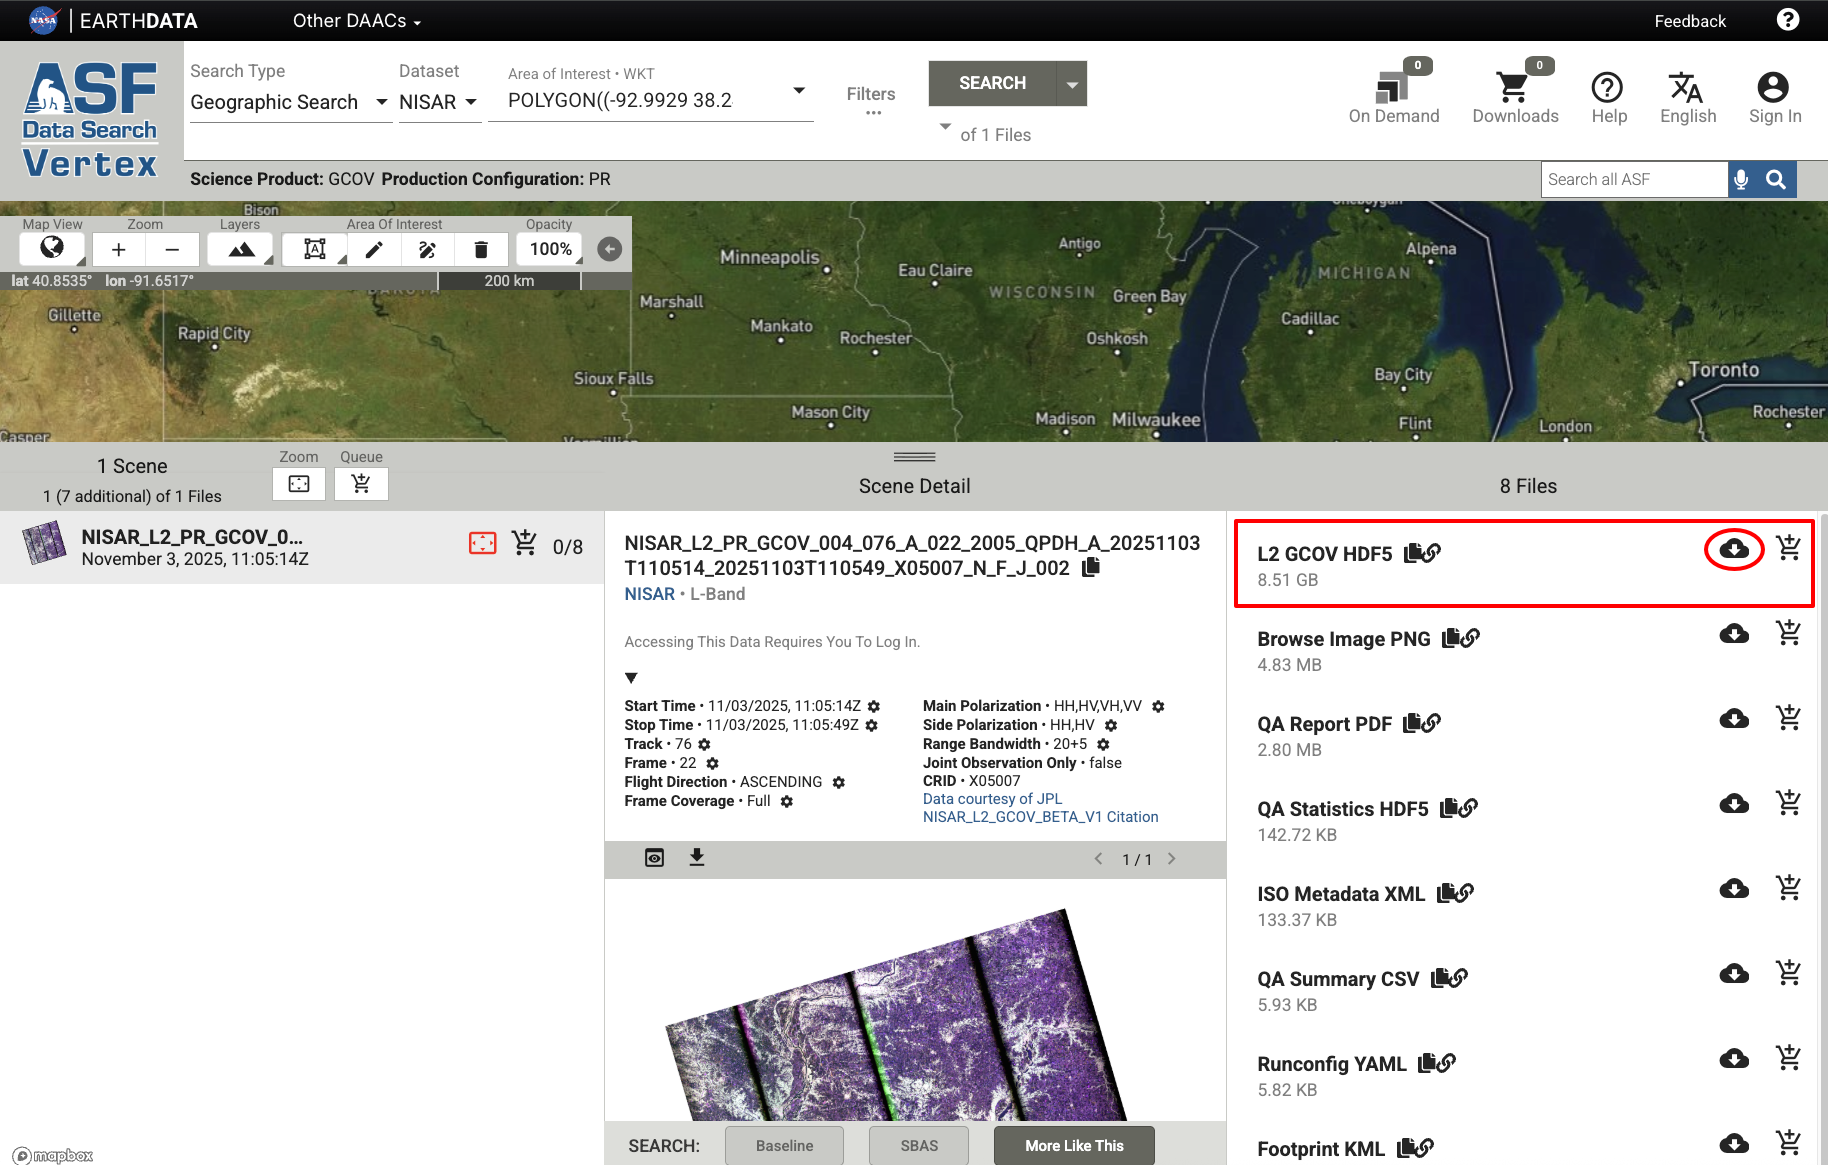
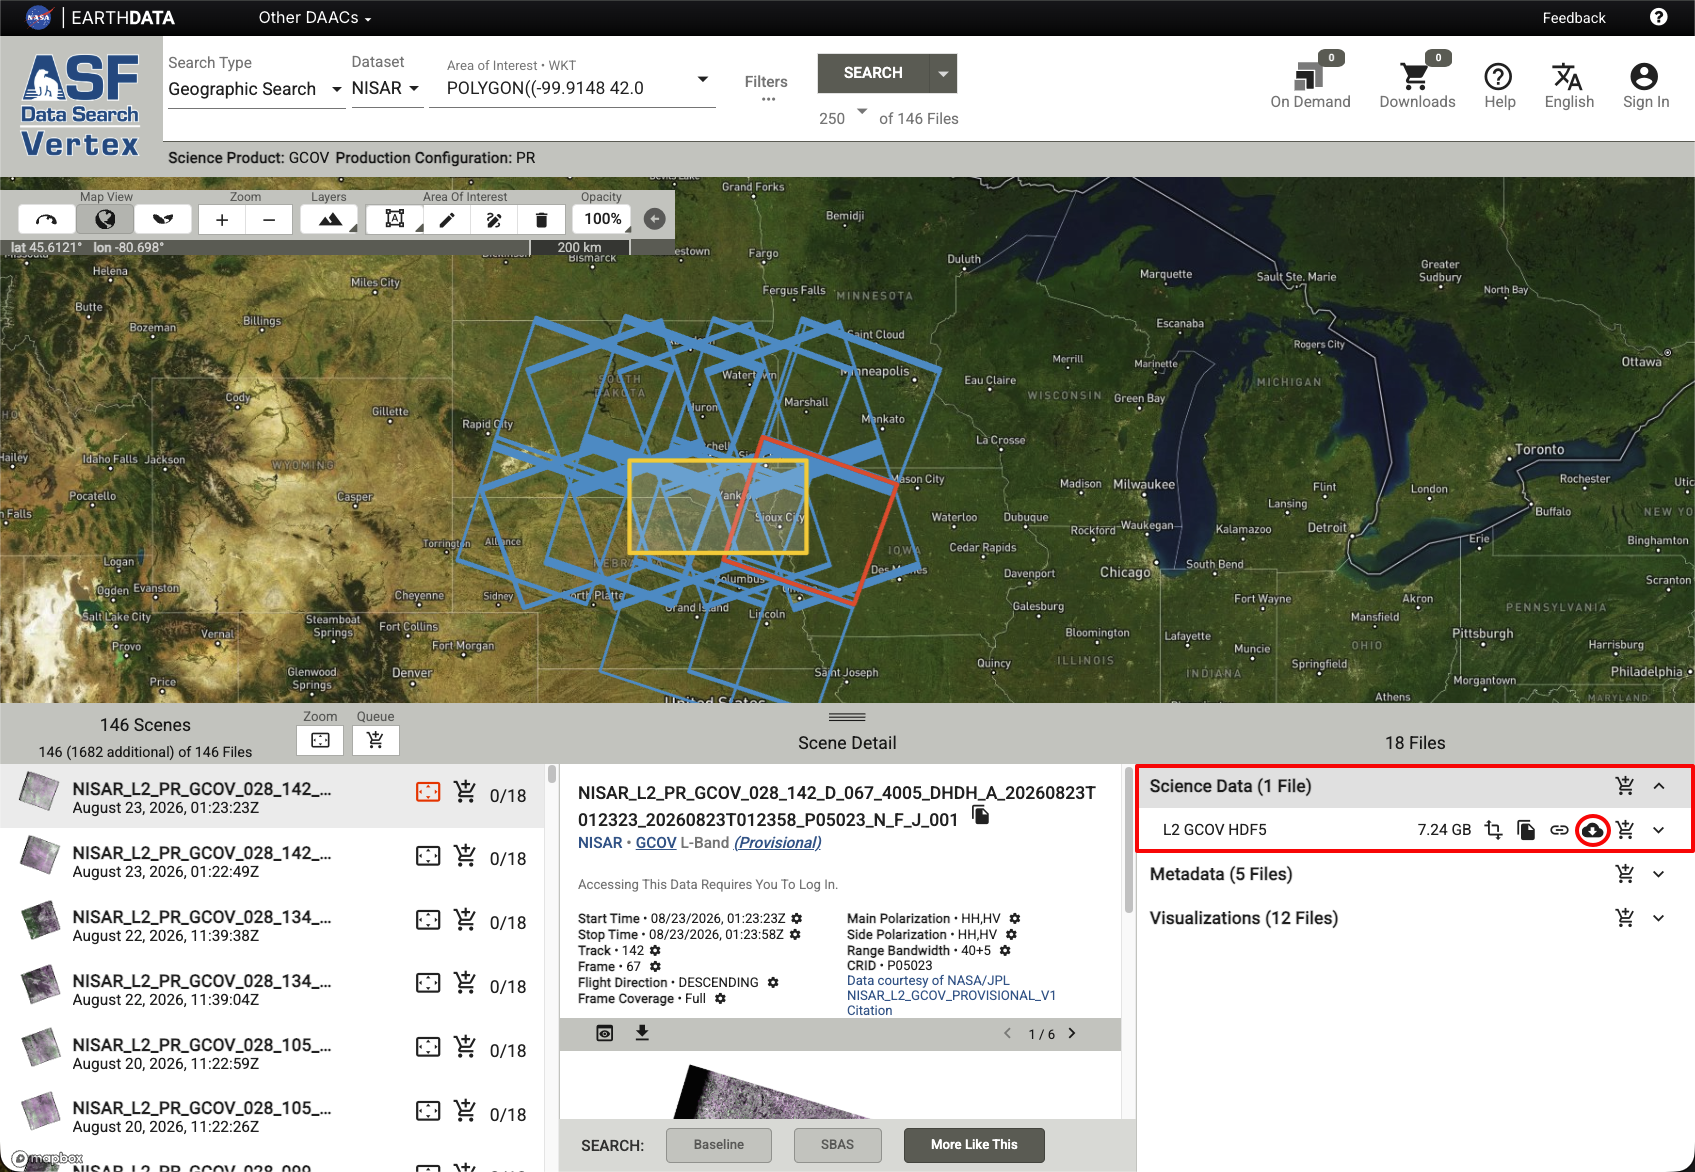
update vertex download to new dropdown

diff --git a/accessing-nisar/vertex.md b/accessing-nisar/vertex.md
@@ -115,7 +115,7 @@ Users can also search by **Track and Frame**. Note that "Track" is also known as
 
 Data are free and available to download through Vertex. Once the desired scene is selected, a list of files will appear on the right-hand side of the screen (or below the scene details on a narrow browser window). The HDF5 file, listed first, contains the science data and imagery. To learn more about HDF5 files, see @hdf5. 
 
-Click the download icon next to the HDF5 file name to save to your computer. You will be prompted to sign in with your [Earthdata Login (EDL)](https://www.earthdata.nasa.gov/data/earthdata-login) account if you have not already.
+Under the Science Data dropdown menu, click the download icon circled in the figure to save to your computer. You will be prompted to sign in with your [Earthdata Login (EDL)](https://www.earthdata.nasa.gov/data/earthdata-login) account if you have not already.
 
 ```{figure} ../assets/vertex-download-files.png
 :label: vertex-download-files
